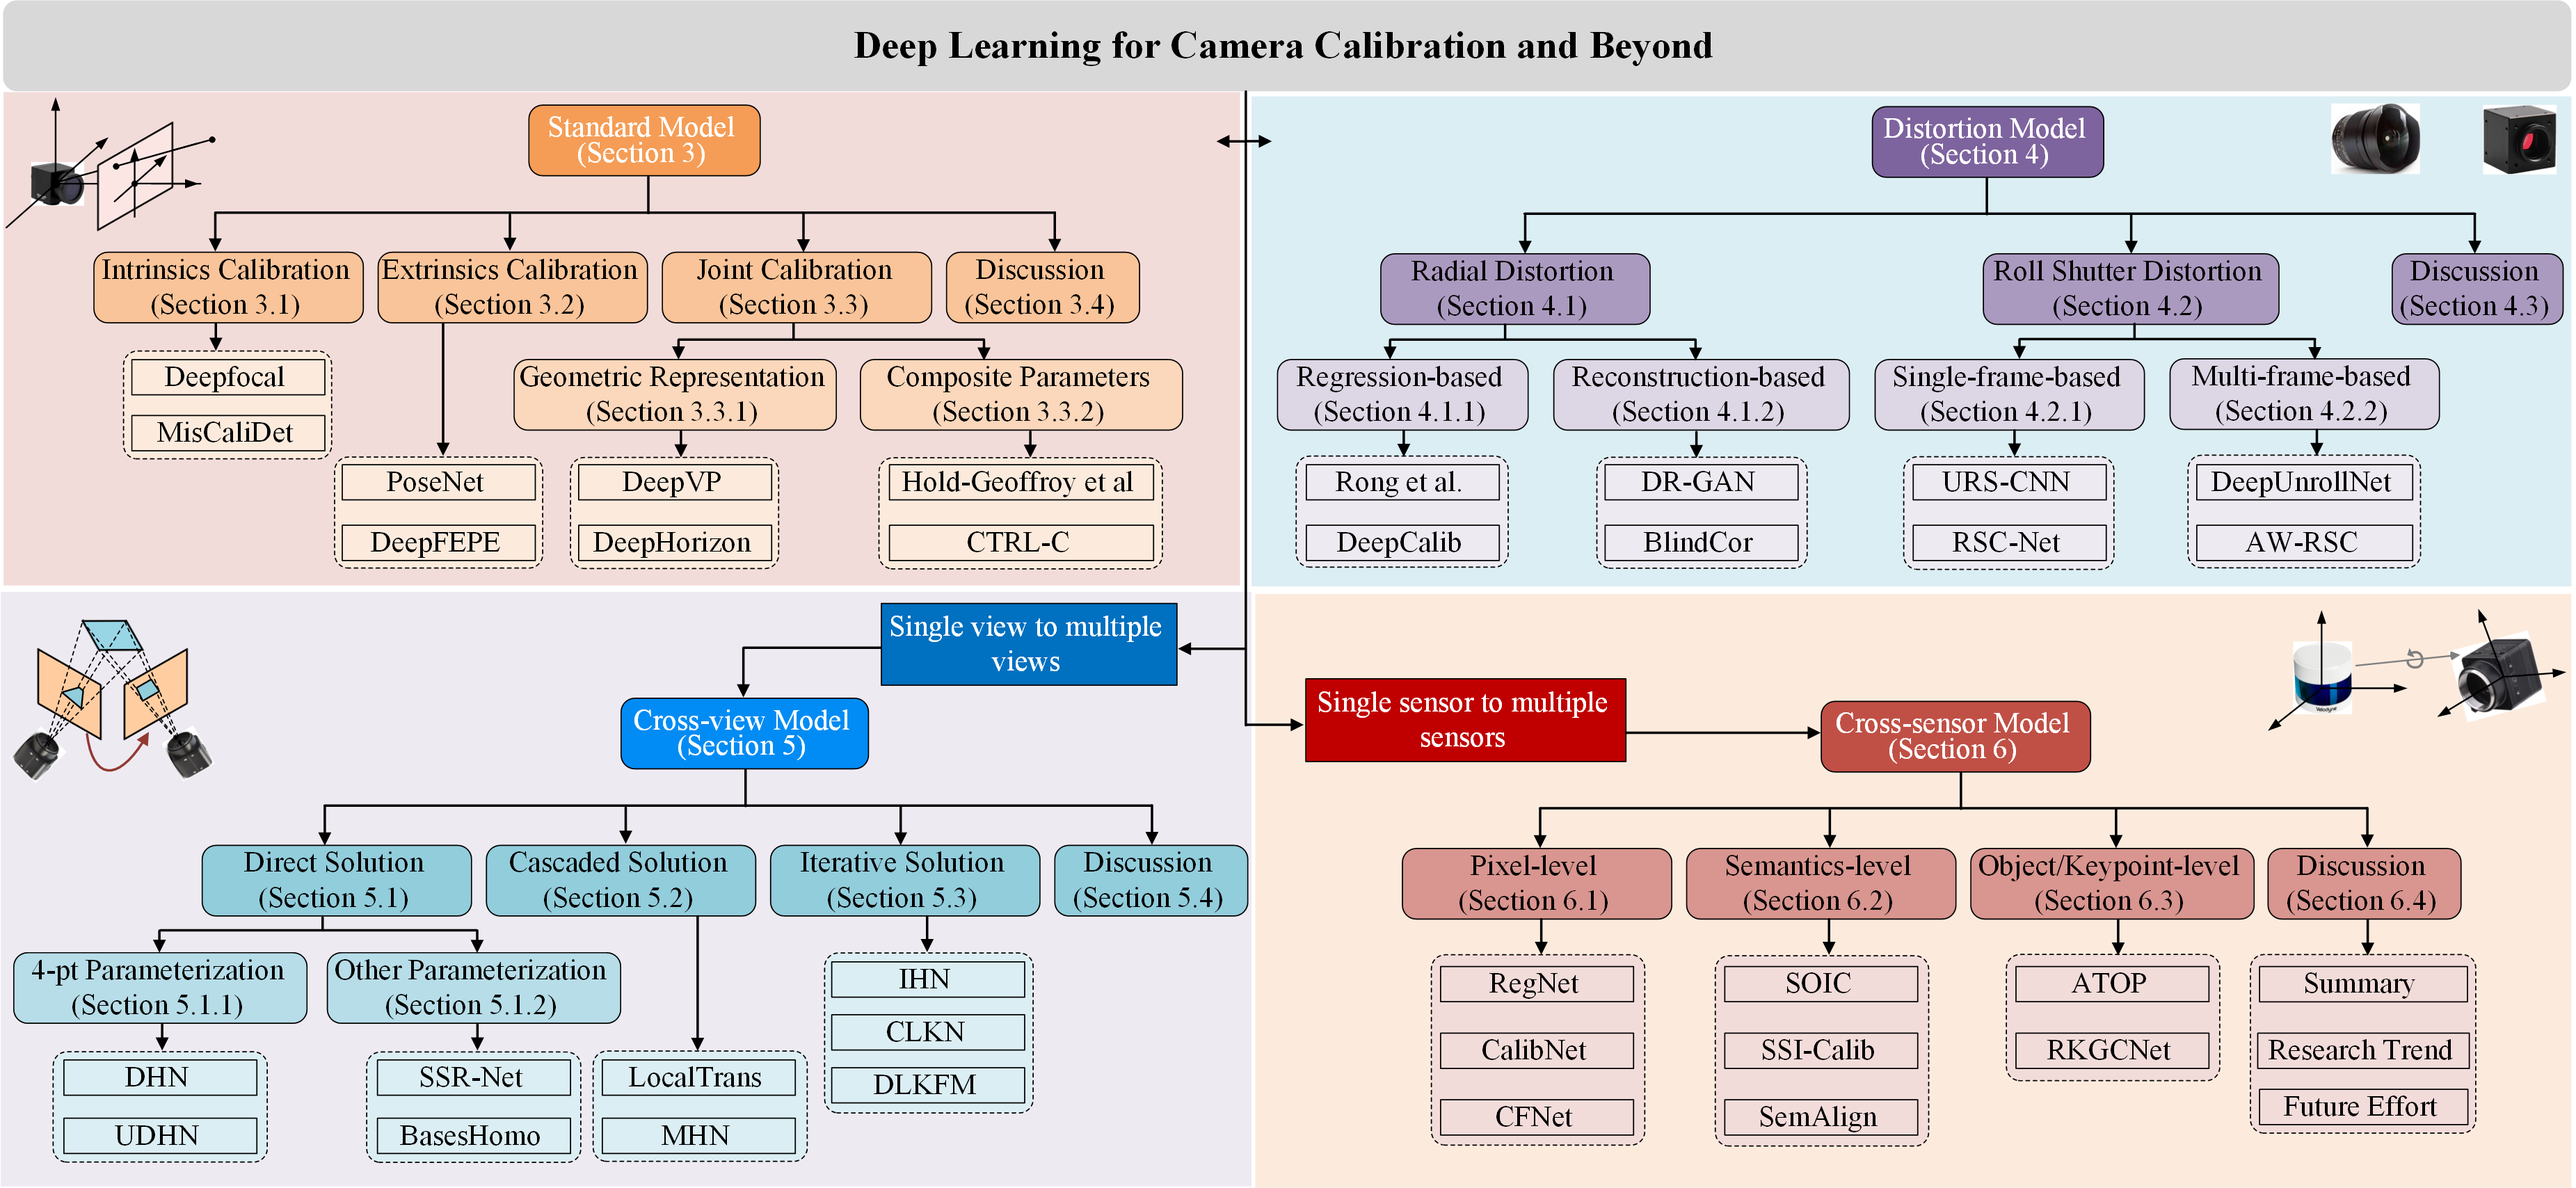
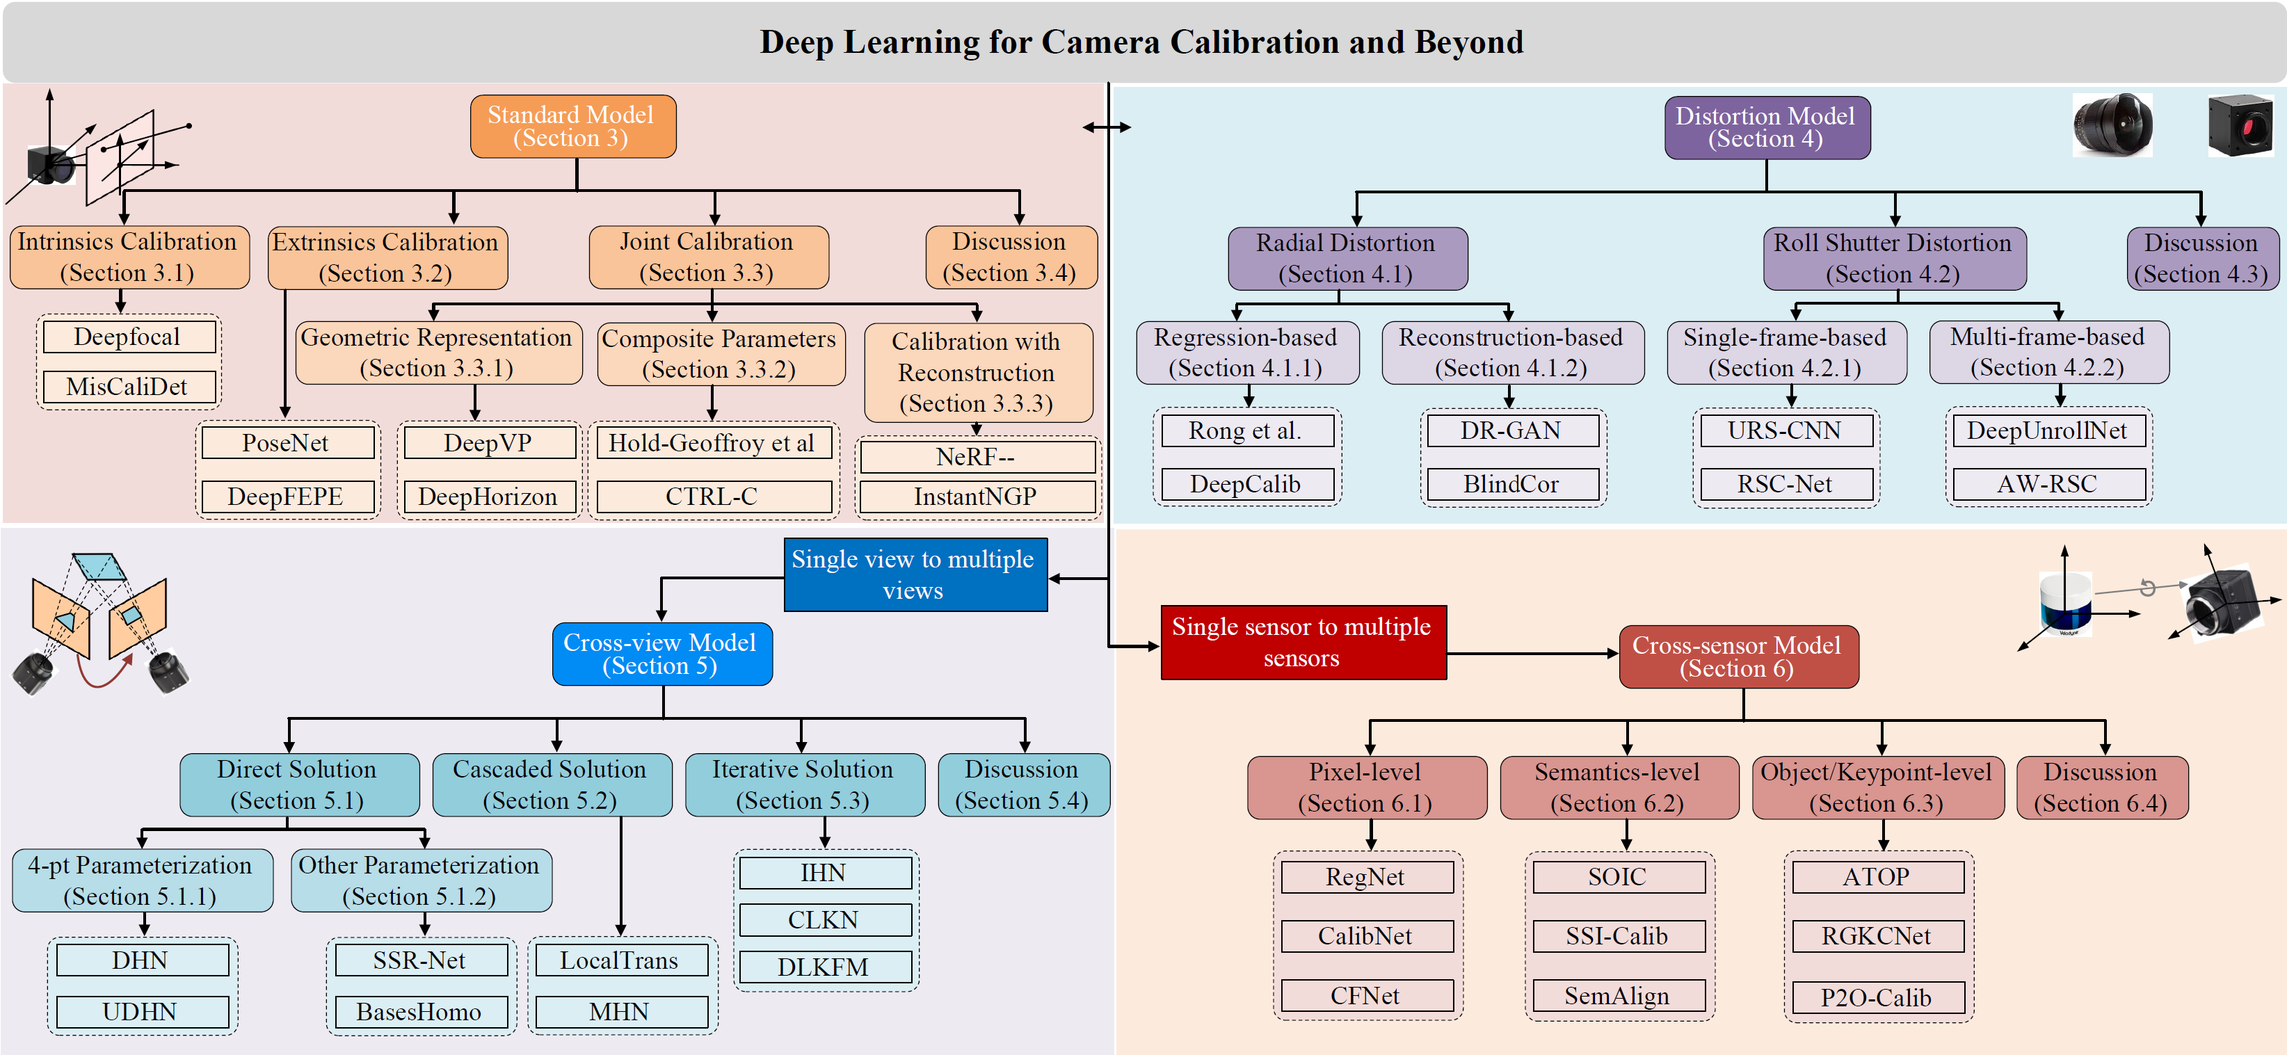
review updates

Changed region(s): [[0.0, 0.0, 1.0, 1.0], [0.5274, 0.6816, 0.9617, 0.9604], [0.0, 0.5267, 0.0931, 0.6506]]

diff --git a/README.md b/README.md
@@ -25,24 +25,25 @@ More content and details can be found in our Survey Paper: [Deep Learning for Ca
 - [x] 2023.03.19: The survey of the arXiv version is online.
 - [x] 2024.01.05: The benchmark is released. Please refer to the dataset link and more details in [Benchmark](https://github.com/KangLiao929/Awesome-Deep-Camera-Calibration/blob/main/Benchmark/readme.md).
 - [x] 2024.06.04: More details about the calibrated camera parameters in our [Benchmark](https://github.com/KangLiao929/Awesome-Deep-Camera-Calibration/blob/main/Benchmark/readme.md) are updated.
-- [x] 2024.06.05: Update the survey paper (Section 3.4) with more technical discussions with NeRF, especially in the camera parameter initialization.
+- [x] 2024.06.05: Update the survey paper (Section 3.3.3-Calibration with Reconstruction) with more technical discussions with NeRF, especially in the camera parameter initialization.
 - [x] 2024.06.05: Update the survey paper (supplementary material) with the evaluation on the constructed benchmark.
-- [x] Update the literature reviews for 2023 and 2024.
+- [x] 2025.02.24: Update the literature reviews for 2023 and 2024 (more than 100 new papers!). Please refer more details to our [arXiv-v3 version](https://arxiv.org/abs/2303.10559v3).
 
 ## 🚩Contents 
 1. [Basics](#Basics)
 2. [Taxonomy](#Taxonomy)
 3. [Benchmark](#Benchmark)
+4. [Novel Calibration Representations](#Calibration_Representation)
 4. [Methods](#Methods)
 5. [Dataset](#Dataset)
 6. [Citation](#Citation)
 7. [知乎导读](#知乎导读)
 
-## 🚩Basics
+## 📖 Basics
 * [Multiple view geometry in computer vision](https://cseweb.ucsd.edu/classes/sp13/cse252B-a/HZ2eCh2.pdf) - Hartley, R., & Zisserman, A. (2004)
 * [A Flexible New Technique for Camera Calibration](https://www.microsoft.com/en-us/research/wp-content/uploads/2016/02/tr98-71.pdf) - Zhengyou Zhang. (2000)
 
-## 🚩Taxonomy
+## 📊 Taxonomy and Statistics
 ![Overview](assets/taxonomy.png)
 **<div align="center">The structural and hierarchical taxonomy of camera calibration with deep learning. Some classical methods are listed under each category.</div>**
 
@@ -50,12 +51,23 @@ More content and details can be found in our Survey Paper: [Deep Learning for Ca
 **<div align="center">A concise milestone of deep learning-based camera calibration methods.</div>** 
 We classify all methods based on the uncalibrated camera model and its extended applications: standard model, distortion model, cross-view model, and cross-sensor model.
 
-## 🚩Benchmark
+![Overview](assets/statics.png)
+**<div align="center">A statistic analysis of deep learning-based camera calibration methods.</div>** 
+We summarize all literature based on the number of publications per year, calibration objectives, simulation of the dataset, and learning strategy.
+
+## 📁 Benchmark
 ![Overview](assets/benchmark.png)
 **<div align="center">Overview of our collected benchmark, which covers all models reviewed in this survey.</div>** 
 In this dataset, the image and video were derived from diverse cameras under different environments. The accurate ground truth and label are provided for each data. Please refer to the dataset link and more details in [Benchmark](https://github.com/KangLiao929/Awesome-Deep-Camera-Calibration/blob/main/Benchmark/readme.md).
 
-## 🚩Methods
+
+## 🏁 Novel Calibration Representations
+![Overview](assets/camera_representations.png)
+**<div align="center">Novel calibration representations are designed for replacing the traditional calibration objectives.</div>** 
+Recent learning-based camera calibration works tend to design a novel geometry field to replace the traditional geometric representations as the new learning target, which is inspired by the prior of camera models or the perspective properties of captured images, such as the [distortion distribution map](https://arxiv.org/pdf/2007.10689), [perspective field](https://arxiv.org/pdf/2212.03239), [incidence field](https://arxiv.org/pdf/2306.10988), [camera rays](https://arxiv.org/pdf/2402.14817), and [camera image](https://arxiv.org/pdf/2411.17240), etc. These fields represent a pixel-wise or patch-wise parametrization of the intrinsic and/or extrinsic invariants. They show an explicit relationship to the image details and are learning-friendly for neural networks.
+
+
+## 📸 Methods
 
 |Year|Publication|Title|Abbreviation|Objective|Platform|Network|
 |---|---|---|---|---|---|---|
@@ -164,7 +176,7 @@ In this dataset, the image and video were derived from diverse cameras under dif
 |2022|[ECCV](https://arxiv.org/abs/2111.12927)|Rethinking generic camera models for deep single image camera calibration to recover rotation and fisheye distortion|GenCaliNet|Intrinsics + Extrinsics + Distortion coefficients| |DenseNet|
 |2022|[PAMI](https://ieeexplore.ieee.org/abstract/document/9771389)|Content-Aware Unsupervised Deep Homography Estimation and Beyond|Liu et al.|Projection matrixs|PyTorch|ResNet|
 
-## 🚩Datasets
+## 🏗 Datasets
 |Name|Publication|Real/Synthetic|Image/Video|Objectives|Dataset|
 |---|---|---|---|---|---|
 |KITTI|[CVPR](https://www.cvlibs.net/publications/Geiger2012CVPR.pdf)|Real|Video|Base|[Dataset](https://www.cvlibs.net/datasets/kitti/)|
@@ -205,7 +217,7 @@ Year = {2023},
 Journal = {arXiv:2303.10559}
 }
 ```
-## 🚩知乎导读
+## 🚩知乎导读 (Handbook in Chinese)
 [导读链接](https://zhuanlan.zhihu.com/p/619217025)
 
 ## 📭Contact
